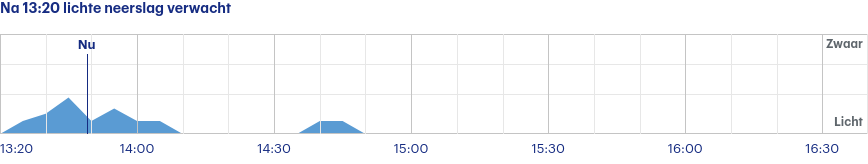
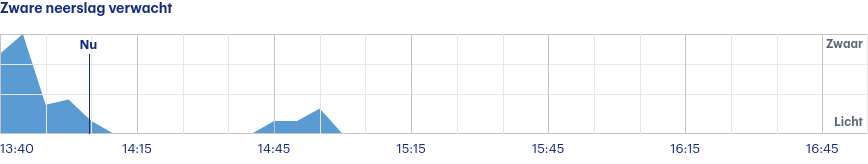
Latest scraping buienradar: Sun Aug 27 12:00:25 UTC 2023

diff --git a/scrapes/buienradar/buienradar-jette-3-uur.md b/scrapes/buienradar/buienradar-jette-3-uur.md
@@ -1,4 +1,4 @@
-Na 13:20 lichte neerslag verwacht
+Zware neerslag verwacht
 
 ![](buienradar-jette-3-uur.png)
 
